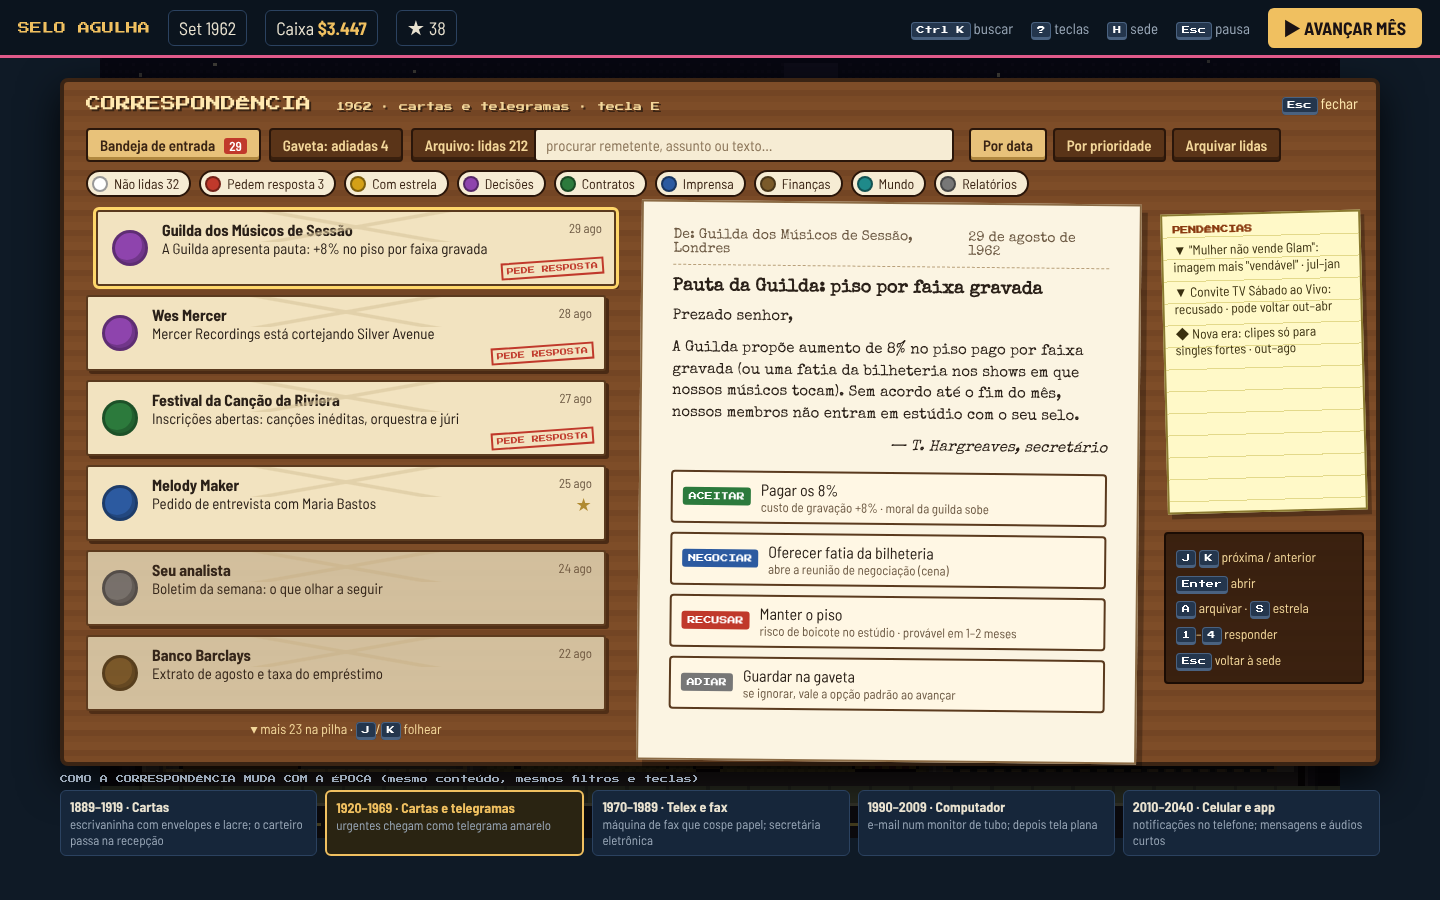
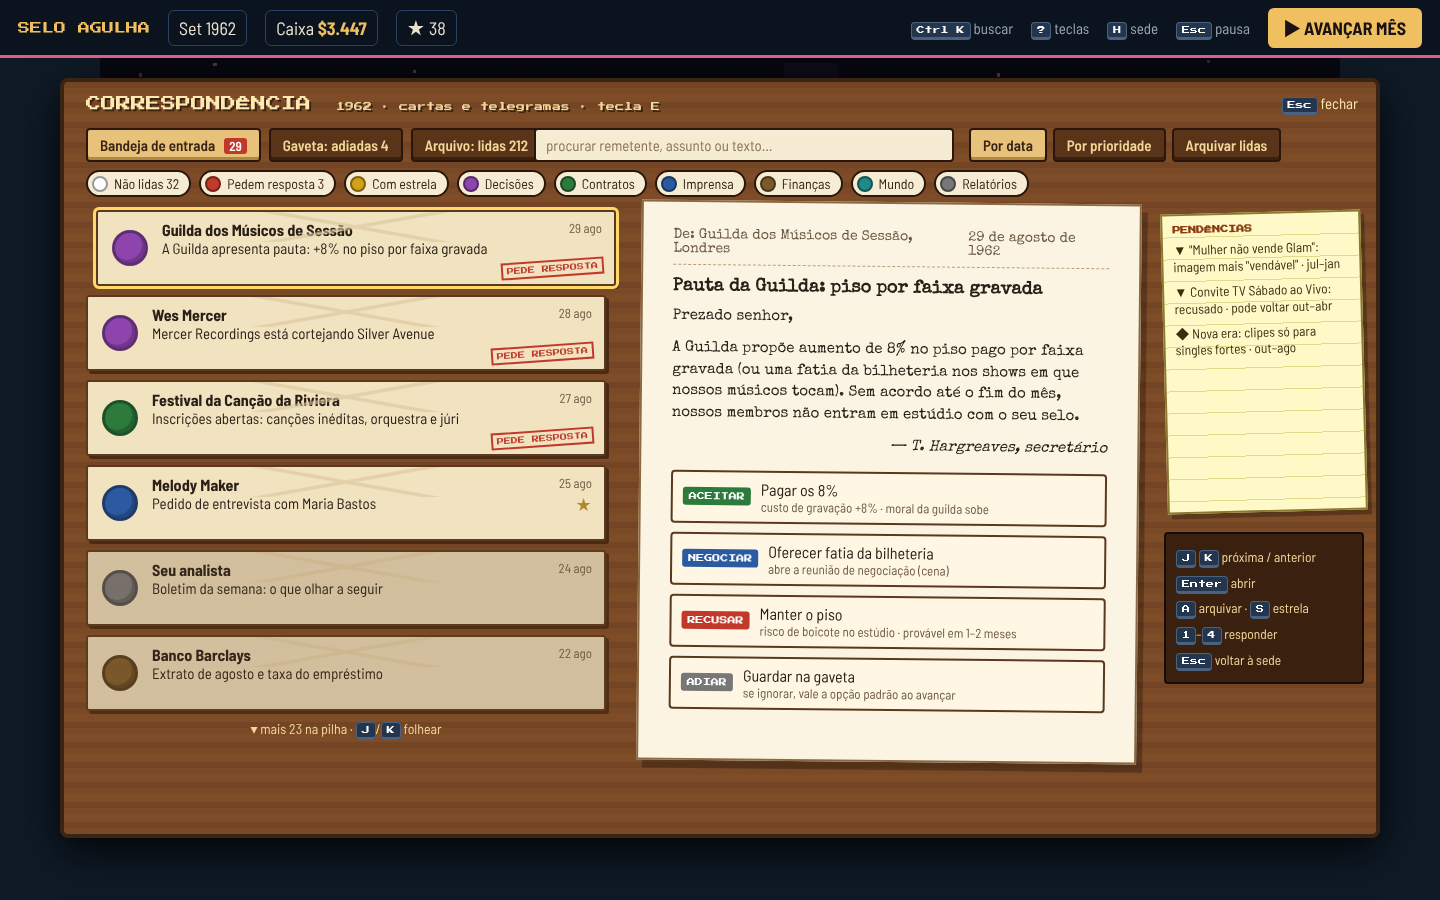
R31 onda 5: caixa de entrada sem a faixa de épocas na tela
Claude-Session: https://claude.ai/code/session_011XM6gk992aeaeJ7tjK8svn

Changed region(s): [[0.0312, 0.84, 0.9688, 0.9644]]

diff --git a/docs/r31/mocks/onda5/caixa.html b/docs/r31/mocks/onda5/caixa.html
@@ -14,7 +14,7 @@ kbd{font-family:'Press Start 2P';font-size:8px;background:#24364d;border:1px sol
 .adv{background:var(--gold);color:#1a1214;font-weight:700;font-size:18px;padding:9px 16px;border-radius:6px}
 .bgsede{position:absolute;left:100px;top:58px;width:1240px;height:780px;image-rendering:pixelated;filter:brightness(.3)}
 /* mesa de madeira */
-.desk{position:absolute;left:60px;top:78px;width:1320px;height:688px;border-radius:8px;border:4px solid #3a2414;
+.desk{position:absolute;left:60px;top:78px;width:1320px;height:760px;border-radius:8px;border:4px solid #3a2414;
  background:repeating-linear-gradient(0deg,#7a4a26 0 6px,#734524 6px 12px,#7e4d28 12px 20px);box-shadow:0 14px 40px #000c}
 .title{position:absolute;left:22px;top:14px;font-family:'Press Start 2P';font-size:15px;color:#ffe9b0;text-shadow:2px 2px 0 #3a2414}
 .title span{font-size:9px;color:#f3d79a;margin-left:10px}
@@ -121,13 +121,5 @@ kbd{font-family:'Press Start 2P';font-size:8px;background:#24364d;border:1px sol
     <div>◆ Nova era: clipes só para singles fortes · out–ago</div>
   </div>
   <div class="keys"><kbd>J</kbd> <kbd>K</kbd> próxima / anterior<br><kbd>Enter</kbd> abrir<br><kbd>A</kbd> arquivar · <kbd>S</kbd> estrela<br><kbd>1</kbd>–<kbd>4</kbd> responder<br><kbd>Esc</kbd> voltar à sede</div>
-</div>
-<div class="lbl">COMO A CORRESPONDÊNCIA MUDA COM A ÉPOCA (mesmo conteúdo, mesmos filtros e teclas)</div>
-<div class="eras">
-  <div class="era"><b>1889–1919 · Cartas</b>escrivaninha com envelopes e lacre; o carteiro passa na recepção</div>
-  <div class="era on"><b>1920–1969 · Cartas e telegramas</b>urgentes chegam como telegrama amarelo</div>
-  <div class="era"><b>1970–1989 · Telex e fax</b>máquina de fax que cospe papel; secretária eletrônica</div>
-  <div class="era"><b>1990–2009 · Computador</b>e-mail num monitor de tubo; depois tela plana</div>
-  <div class="era"><b>2010–2040 · Celular e app</b>notificações no telefone; mensagens e áudios curtos</div>
 </div>
 </body></html>

diff --git a/docs/r31/onda5-mapa.md b/docs/r31/onda5-mapa.md
@@ -76,7 +76,8 @@ lidas, pedem resposta, estrela, decisões, contratos, imprensa, finanças, mundo
 | 2010–2040 | Celular e app | Notificações no telefone; mensagens e áudios curtos |
 
 Abre como papel/tela por cima da cena (mock: `docs/r31/mocks/onda5/onda5-mock-caixa.png`); "Responder" usa a cena da
-mecânica quando existe (negociação, banco, compra…). Tecla E de qualquer lugar; o objeto mostra o número de não lidas.
+mecânica quando existe (negociação, banco, compra…). Tecla E de qualquer lugar; o objeto mostra o número de não lidas. A troca de forma por época acontece sozinha; não
+existe linha do tempo nem explicação das épocas na tela (decisão do dono).
 
 ## Cidade — prédios (o menu "Cidade" de hoje já tem quase todos como lugares)
 
